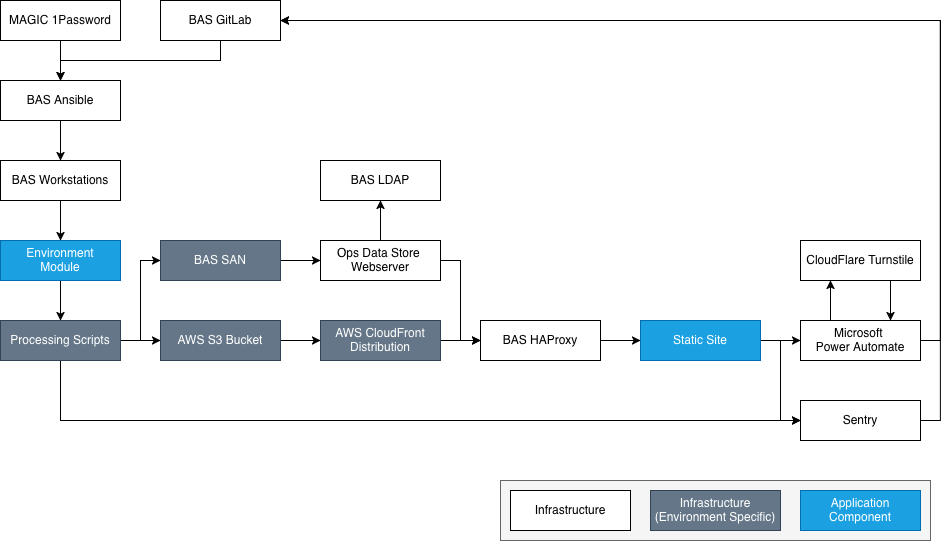
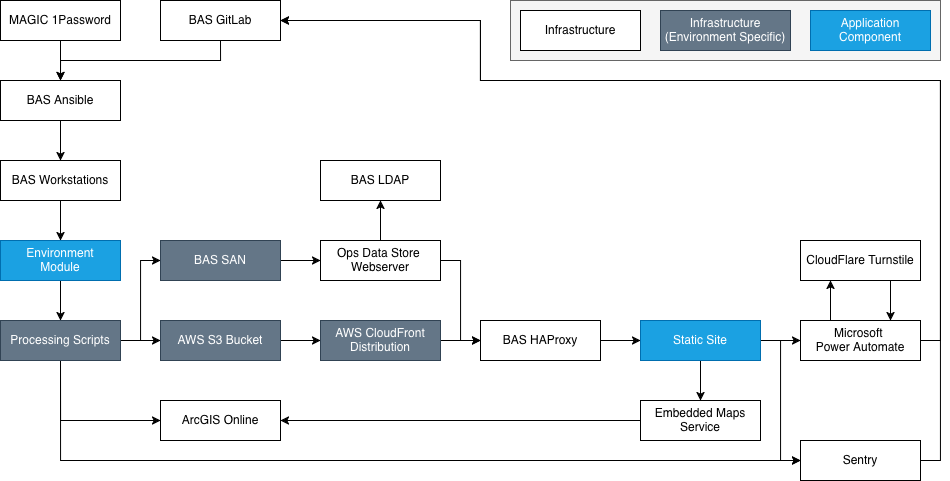
Documentation improvements

diff --git a/README.md b/README.md
@@ -5,7 +5,8 @@ A prototype [Data Catalogue](https://data.bas.ac.uk/-/index) for BAS discovery m
 ## Overview
 
 A data discovery tool used to find, evaluate and access resources produced, managed and/or used by the
-[British Antarctic Survey](https://www.bas.ac.uk) and [UK Polar Data Centre](https://www.bas.ac.uk/data/uk-pdc/).
+[British Antarctic Survey](https://www.bas.ac.uk) and
+[UK Polar Data Centre](https://www.bas.ac.uk/data/polar-data-centre/).
 
 <!-- pyml disable md028 -->
 > [!IMPORTANT]
@@ -13,6 +14,9 @@ A data discovery tool used to find, evaluate and access resources produced, mana
 > [BAS Assets Tracking Service](https://github.com/antarctica/assets-tracking-service) that will form the next release
 > of the [ADD Metadata Toolbox 🛡](https://gitlab.data.bas.ac.uk/MAGIC/add-metadata-toolbox), which will form the new
 > BAS Data Catalogue.
+
+> [!NOTE]
+> This project forms part of the MAGIC Spatial Data Infrastructure (SDI).
 
 > [!NOTE]
 > This project is focused on needs within the British Antarctic Survey. It has been open-sourced in case parts are of

diff --git a/docs/architecture.md b/docs/architecture.md
@@ -10,6 +10,9 @@ This diagram shows this project's components at lower and more detailed level:
 
 ![Architecture Diagram](/docs/img/architecture-narrow.png)
 
+> [!NOTE]
+> This project forms part of the MAGIC Spatial Data Infrastructure (SDI) as a discovery service.
+
 ## Catalogue application
 
 The Data Catalogue is managed by a Python application within the `src/lantern` package.
@@ -82,6 +85,11 @@ AWS S3 is used as a web host for:
 See the [Site Exporter](/docs/exporters.md#site-exporter) docs for how information is managed in S3.
 
 See the [Static Site](/docs/site.md) docs for more information about what is stored in S3.
+
+### ArcGIS Online
+
+[ArcGIS Online](https://www.arcgis.com) is used in Records as a distribution option and key data access system for
+spatial services. It also underpins the Embedded Maps Service used for extent visualisations in Items.
 
 ## Infrastructure
 

diff --git a/docs/data-model.md b/docs/data-model.md
@@ -63,7 +63,7 @@ These requirements are enforced by the `validate()` method in the [Catalogue Rec
 > [!NOTE]
 > Whilst not required, records without
 > [Administration Metadata](/docs/libraries.md#record-administrative-metadata) will be interpreted as
-> [Restricted Items](#item-access-levels) when processed, and is therefore typically also included.
+> [Restricted Items](#item-access-levels).
 
 > [!CAUTION]
 > The catalogue does not enforce metadata access constraints if set.

diff --git a/CHANGELOG.md b/CHANGELOG.md
@@ -35,6 +35,7 @@ Wherever possible, a reference to an issue in the project issue tracker should b
 * Refactoring test records to use base record presets
 * Updating project logo to AI placeholder
 * Records publishing workflow updated to use merge request reviewer approvals
+* Updating documentation diagrams
 
 ## [0.5.0] - 2026-02-27 [!BREAKING]
 
